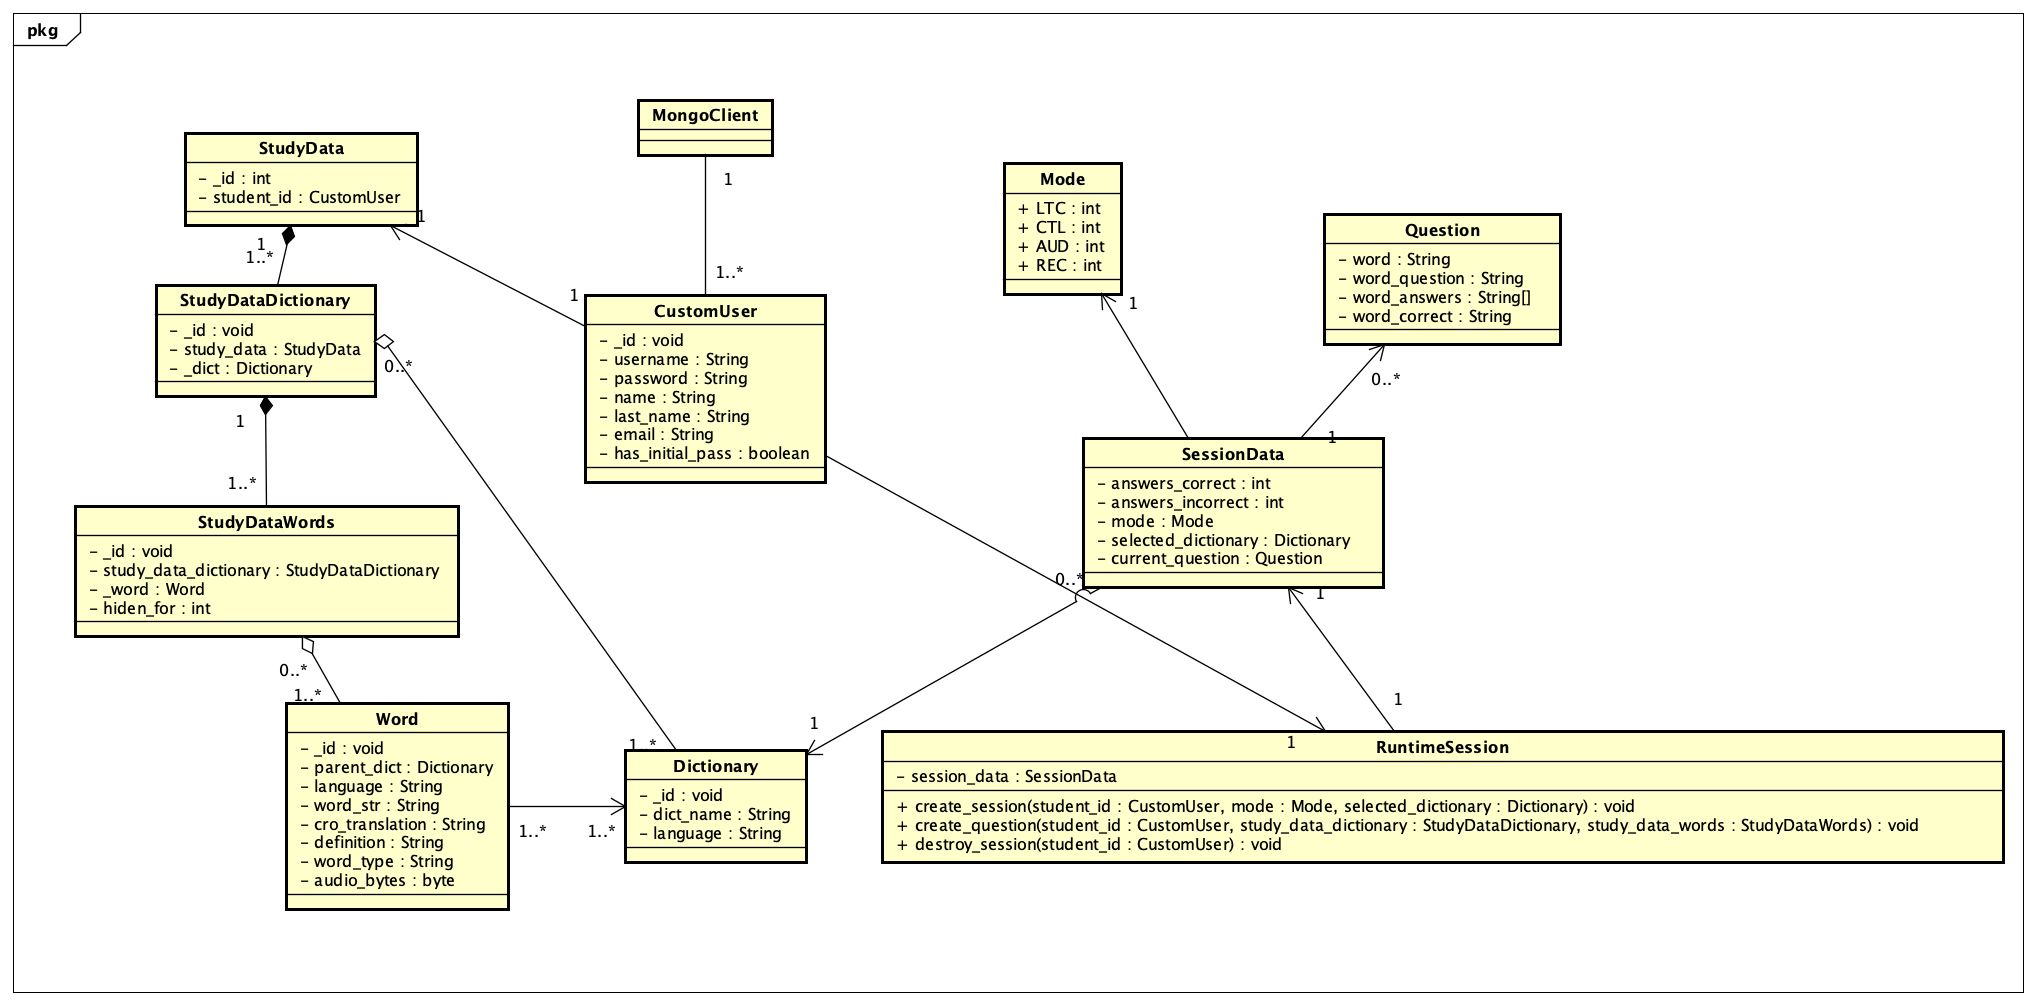
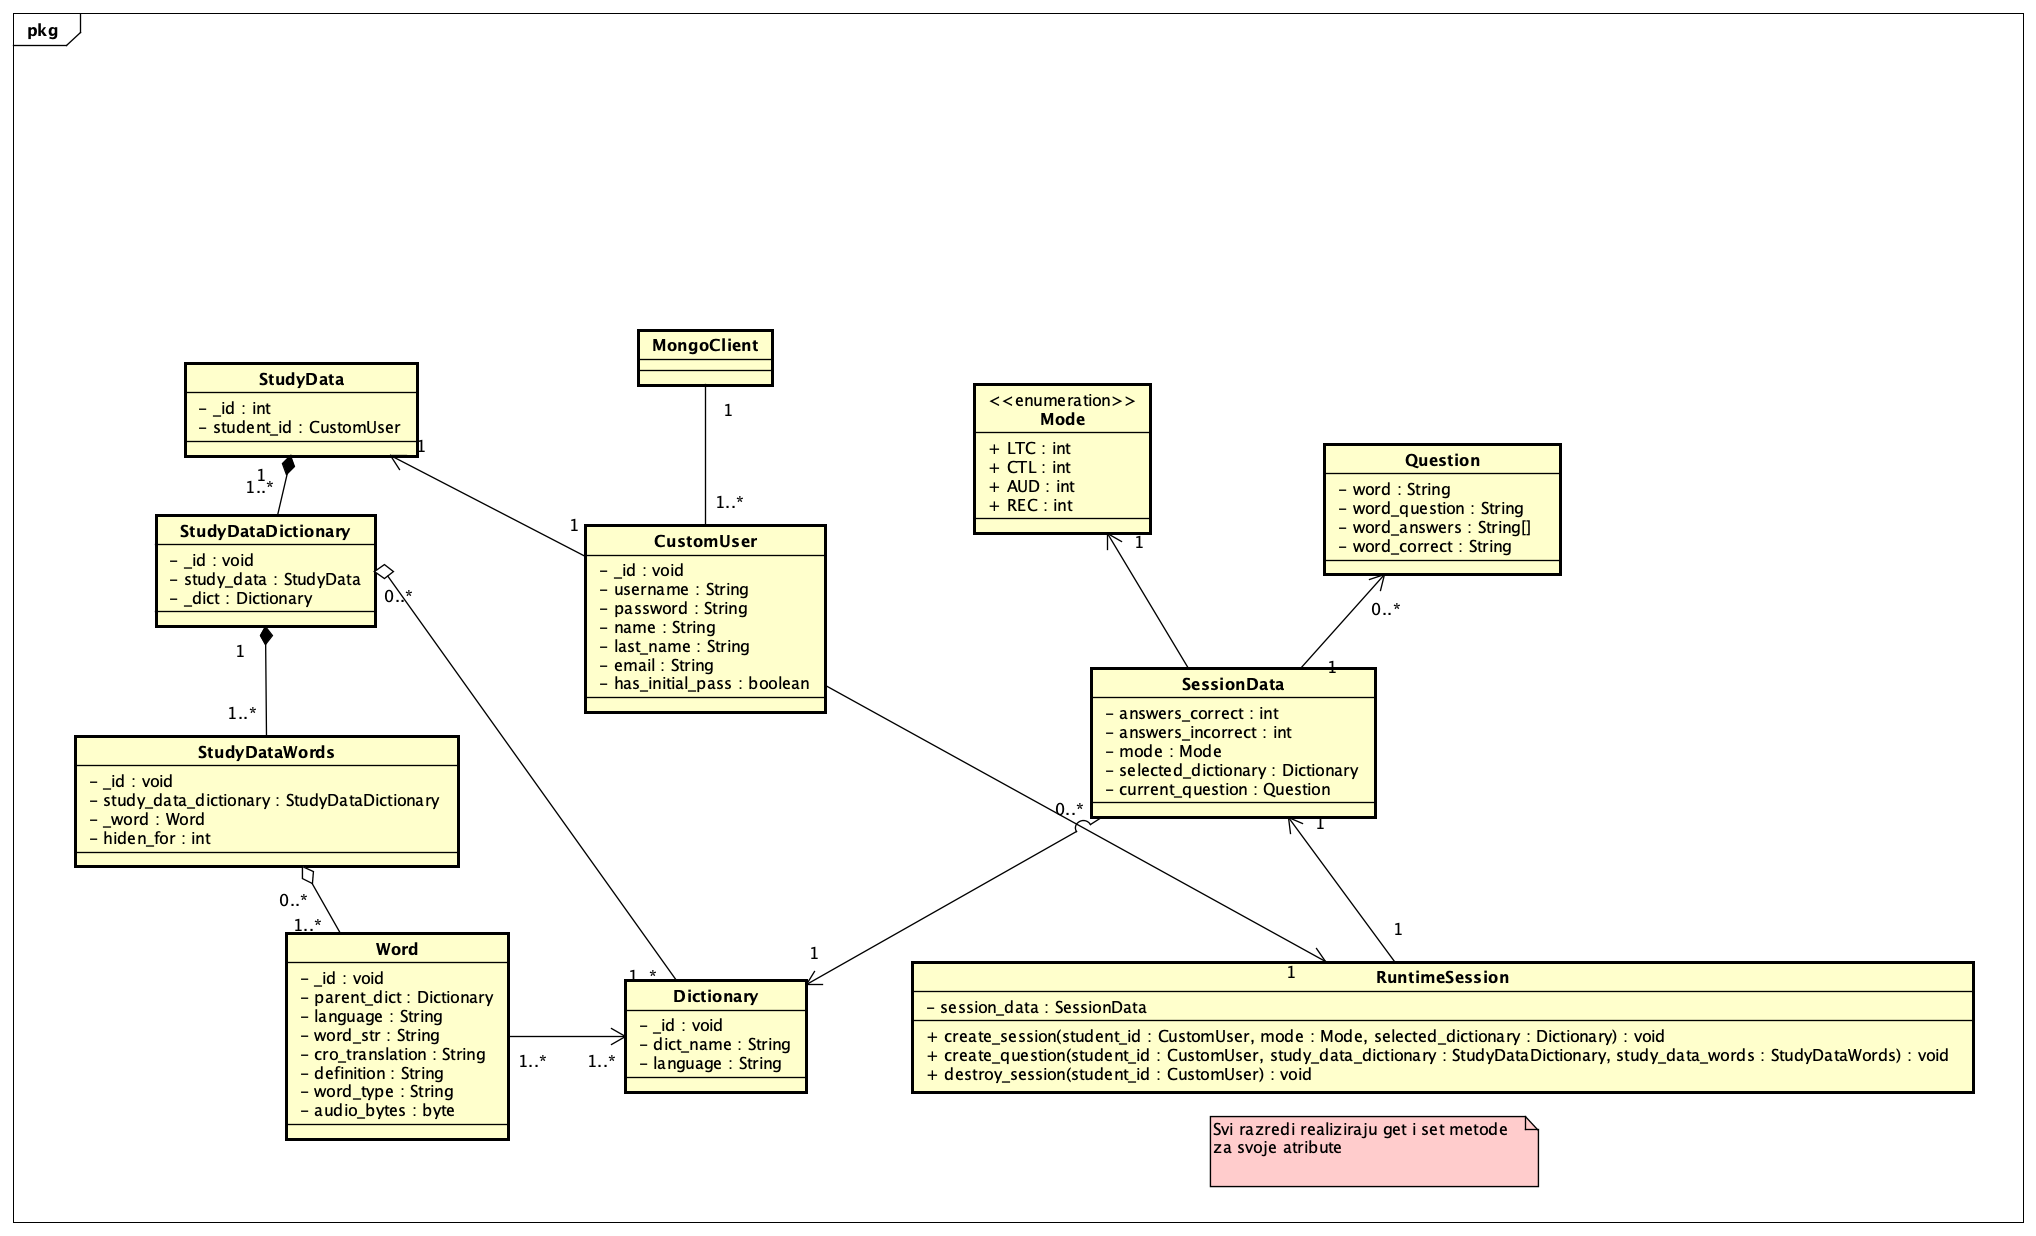
Dodane konačne slike, promijenjen opis, dodan dnevnik promjena

diff --git a/Dokumentacija/Arhitektura.tex b/Dokumentacija/Arhitektura.tex
@@ -194,31 +194,22 @@
 			
 		\section{Dijagram razreda}
 
-			\indent{Na slikama 4.3, 4.4 i 4.5 su prikazani razredi koji pripadaju {\textit{backend}} dijelu MVC (MTV)
-			arhitekture. Razredi prikazani na slici 4.3 pirkazuju Controller razred. Metode implementirane u tim razredima
-			manipuliraju s DTO razredima ({\textit{Data transfer object}}) koji služe za prijenos podataka između baze podataka i
-			aplikacije. Atributi koji se nalaze u DTO razredima dohvaćaju se pomoću metoda implementiranih unutra Model razreda. 
-			Metode implementirane unutar Controller razreda vraćaju JSON datoteke.}
+			\indent{Na slikama 4.3, 4.4 su prikazani razredi koji pripadaju {\textit{backend}} dijelu MVC (MTV)
+			arhitekture. Razredi prikazani na slici 4.3 prikazuju controller razred, gdje controller predstavlja APIView razred.
+			Metode implementirane u tim razredima manipuliraju s APIView razredom ({\textit{Data transfer object}}) koji služi
+			za prijenos podataka između fronted i backend dijela aplikacije. Metode implementirane unutar Controller razreda vraćaju
+			JSON datoteke.}
 
-			\indent{Zbog lakše oraganizacije, razredi su podijeljeni logički po pravu pristupa metodama određenih aktora. Kako
-			bi se smanjila prenatrpanost unutar pojedinog dijagrama, prikazane su samo ovisnosti između razreda koji pripadaju
-			istom dijelu dijagrama. Također se iz naziva i tipova atributa može zaključiti vrsta ovisnosti i povezanosti između
-			različitih razreda.}
-
-			\indent{Controller je povezan sa 4 klase. To su klase AdminViews, UserViews, DictViews i SessionViews. Sve 4 klase u
-			sebi sadrže metode koje su povezane sa naslovom te klase, ali i druge klase. Na primjer, klasa DictViews u sebi sadrži
-			metode za rad s rječnicima i riječima, no te metode koriste ili administrator ili korisnik.}
+			\indent{APIView je povezan sa 4 klase odnosno te klase nasljeđuju APIView. To su klase AdminViews, UserViews,
+			DictViews i SessionViews. Zbog lakše oraganizacije, razredi su podijeljeni logički na temelju dijela aplikacije kojim
+			manipuliraju. UserViews razred recimo služi za obradu korisničkih zahtijeva, dok DictViews razred služi za rad s riječima
+			i rječnicima. Sve 4 klase u sebi sadrže metode koje su povezane sa naslovom te klase, ali i druge klase. Na primjer,
+			klasa DictViews u sebi sadrži metode za rad s rječnicima i riječima, no te metode koriste ili administrator ili korisnik.}
 
 			\begin{figure}[H]
 				\includegraphics[width=\textwidth]{dijagrami/Dijagram_razreda_controller.png} %veličina u odnosu na širinu linije
 				\caption{Dijagram razreda - dio Controllers}
 				\label{fig:Dijagram_razreda_controller} %label mora biti drugaciji za svaku sliku
-			\end{figure}
-
-			\begin{figure}[H]
-				\includegraphics[width=\textwidth]{dijagrami/classdto.png} %veličina u odnosu na širinu linije
-				\caption{Dijagram razreda - dio Data Transfer Objects}
-				\label{fig:classdto} %label mora biti drugaciji za svaku sliku
 			\end{figure}
 
 			\indent{Model razredi zapravo preslikavaju strukturu baze podataka u aplikaciji. Implementirane metode direktno

diff --git a/Dokumentacija/Dnevnik_promjena_dokumentacije.tex b/Dokumentacija/Dnevnik_promjena_dokumentacije.tex
@@ -39,6 +39,7 @@
 			\hline
 			1.7 & Zaključak i budući rad & Jan Kuzman & 13.1.2024 \\ [3pt] \hline
 			1.8 & Dijagram komponenti & Kristijan Milić & 17.1.2024 \\ [3pt] \hline
+			1.9 & Dijagram razreda & Lovro Švenda & 19.1.2024. \\ [3pt] \hline
 		\end{longtblr}
 	
 	
